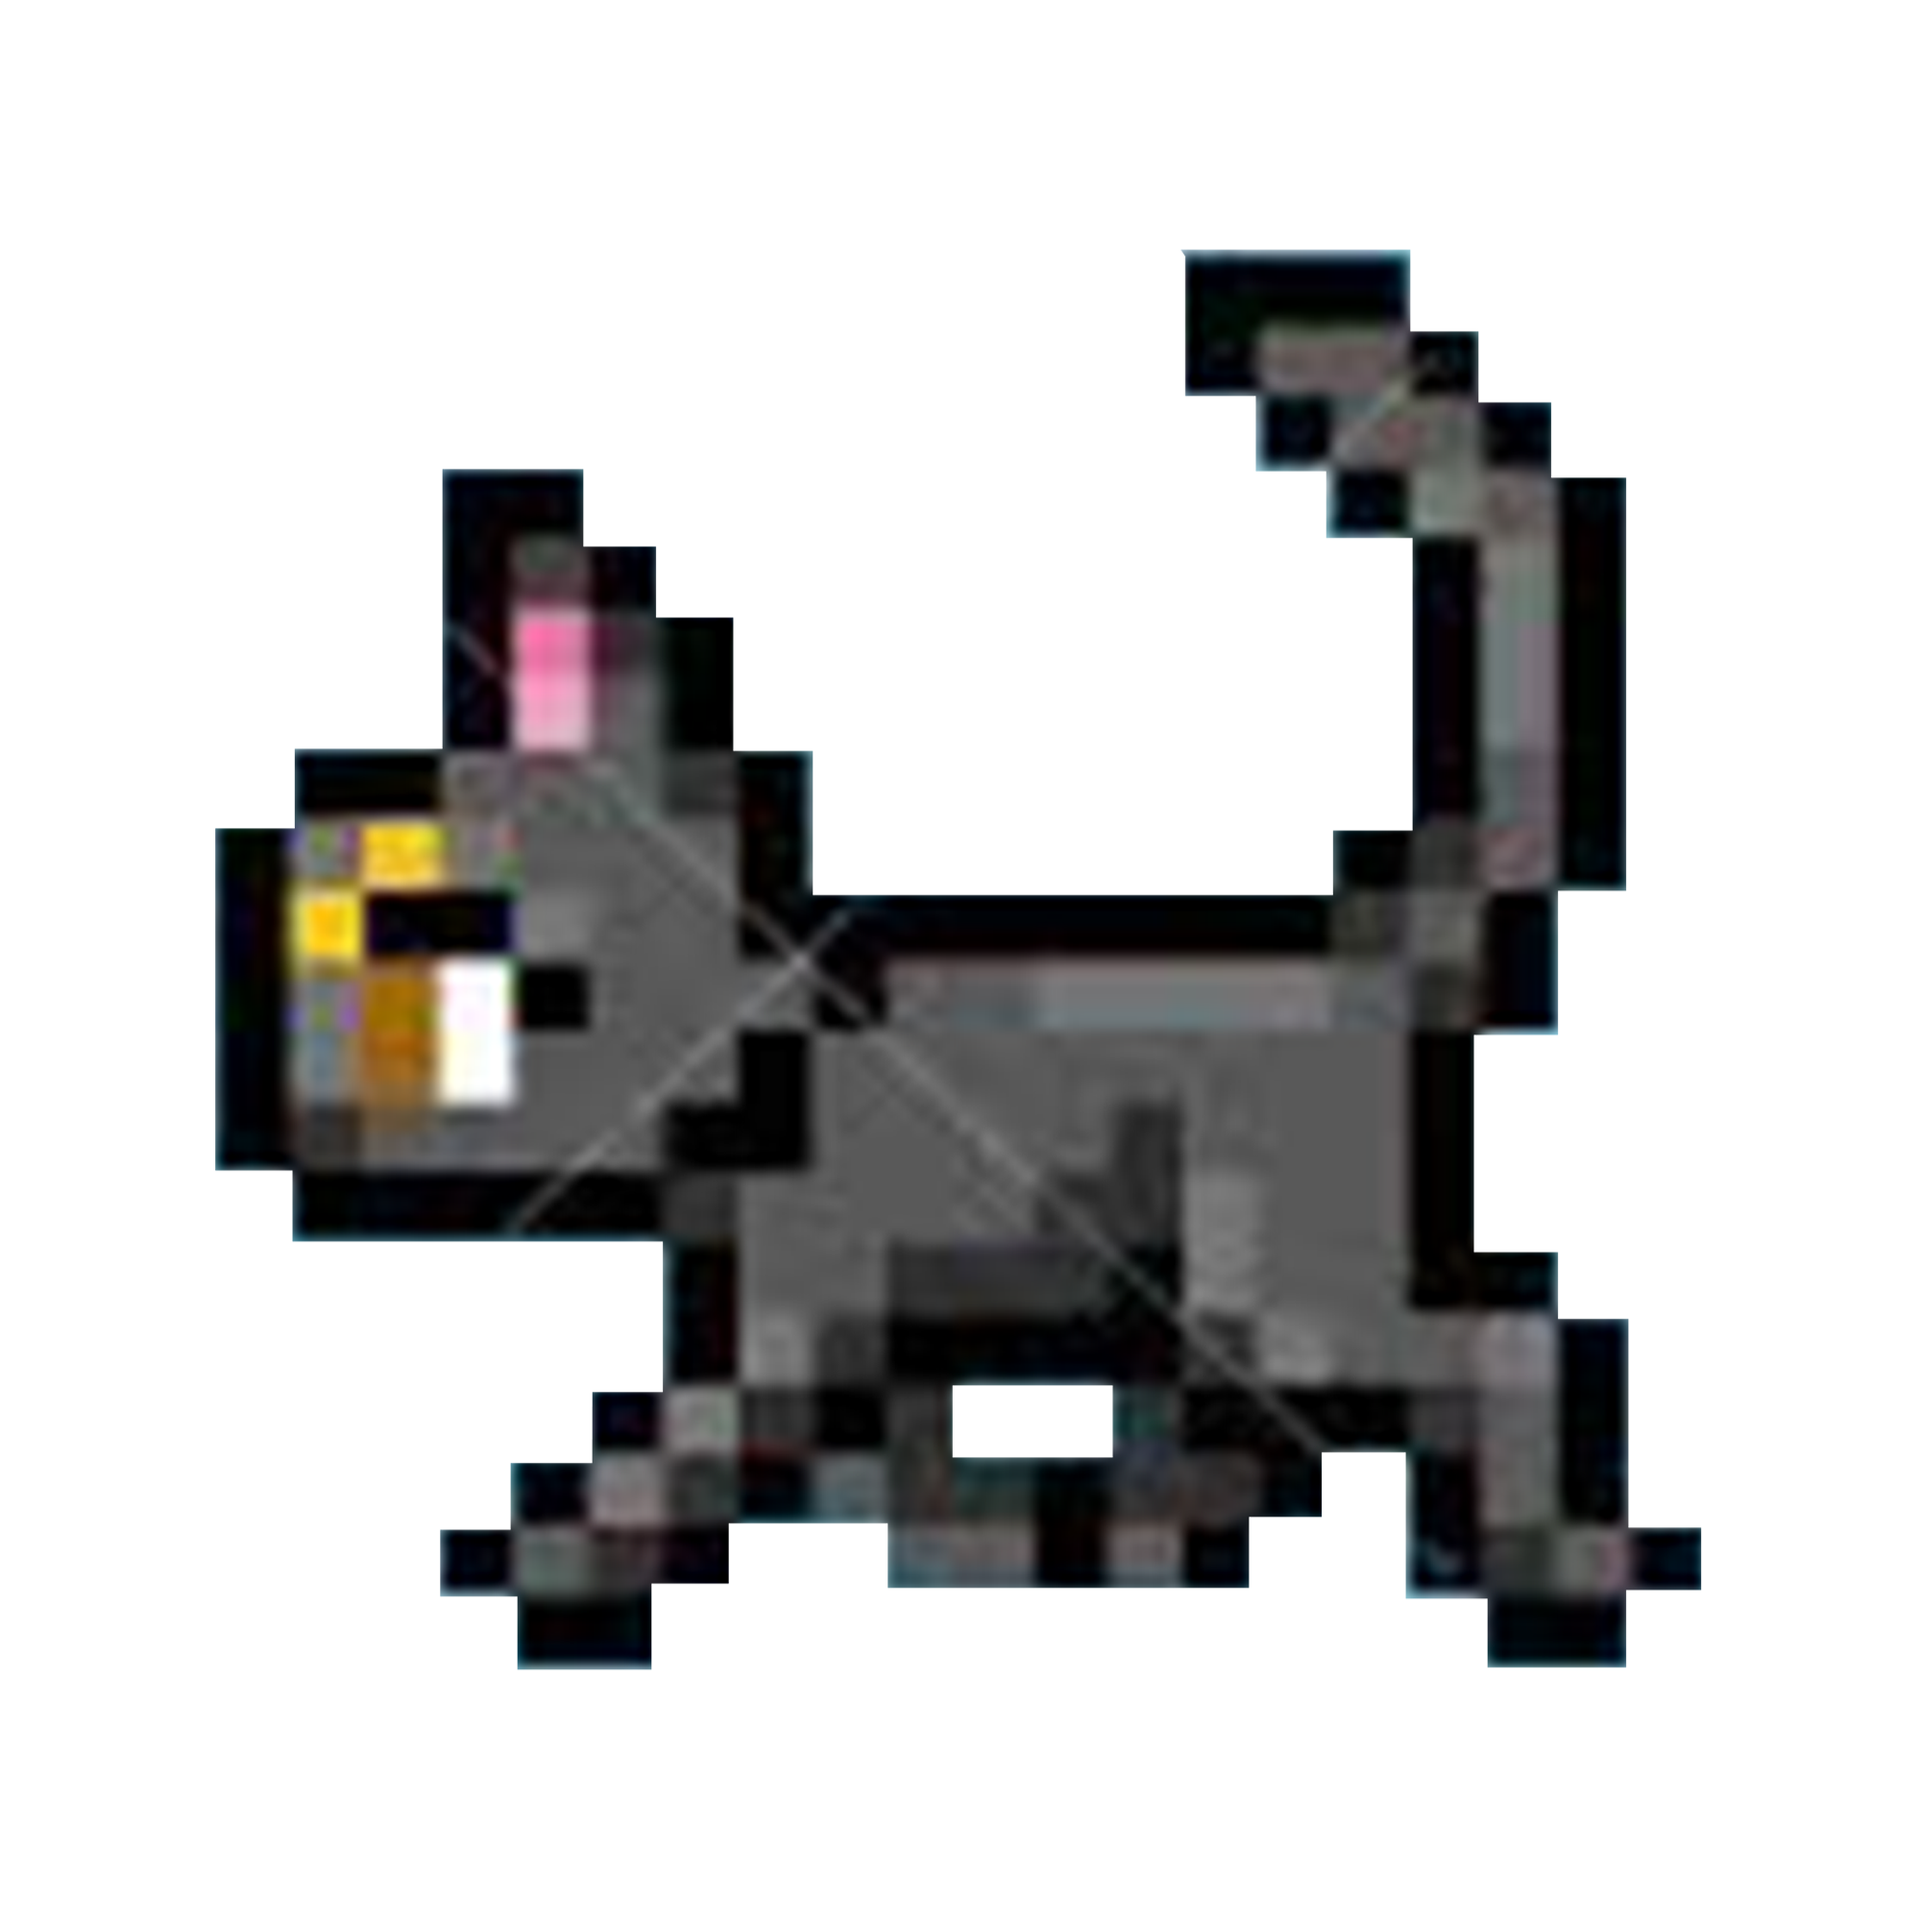
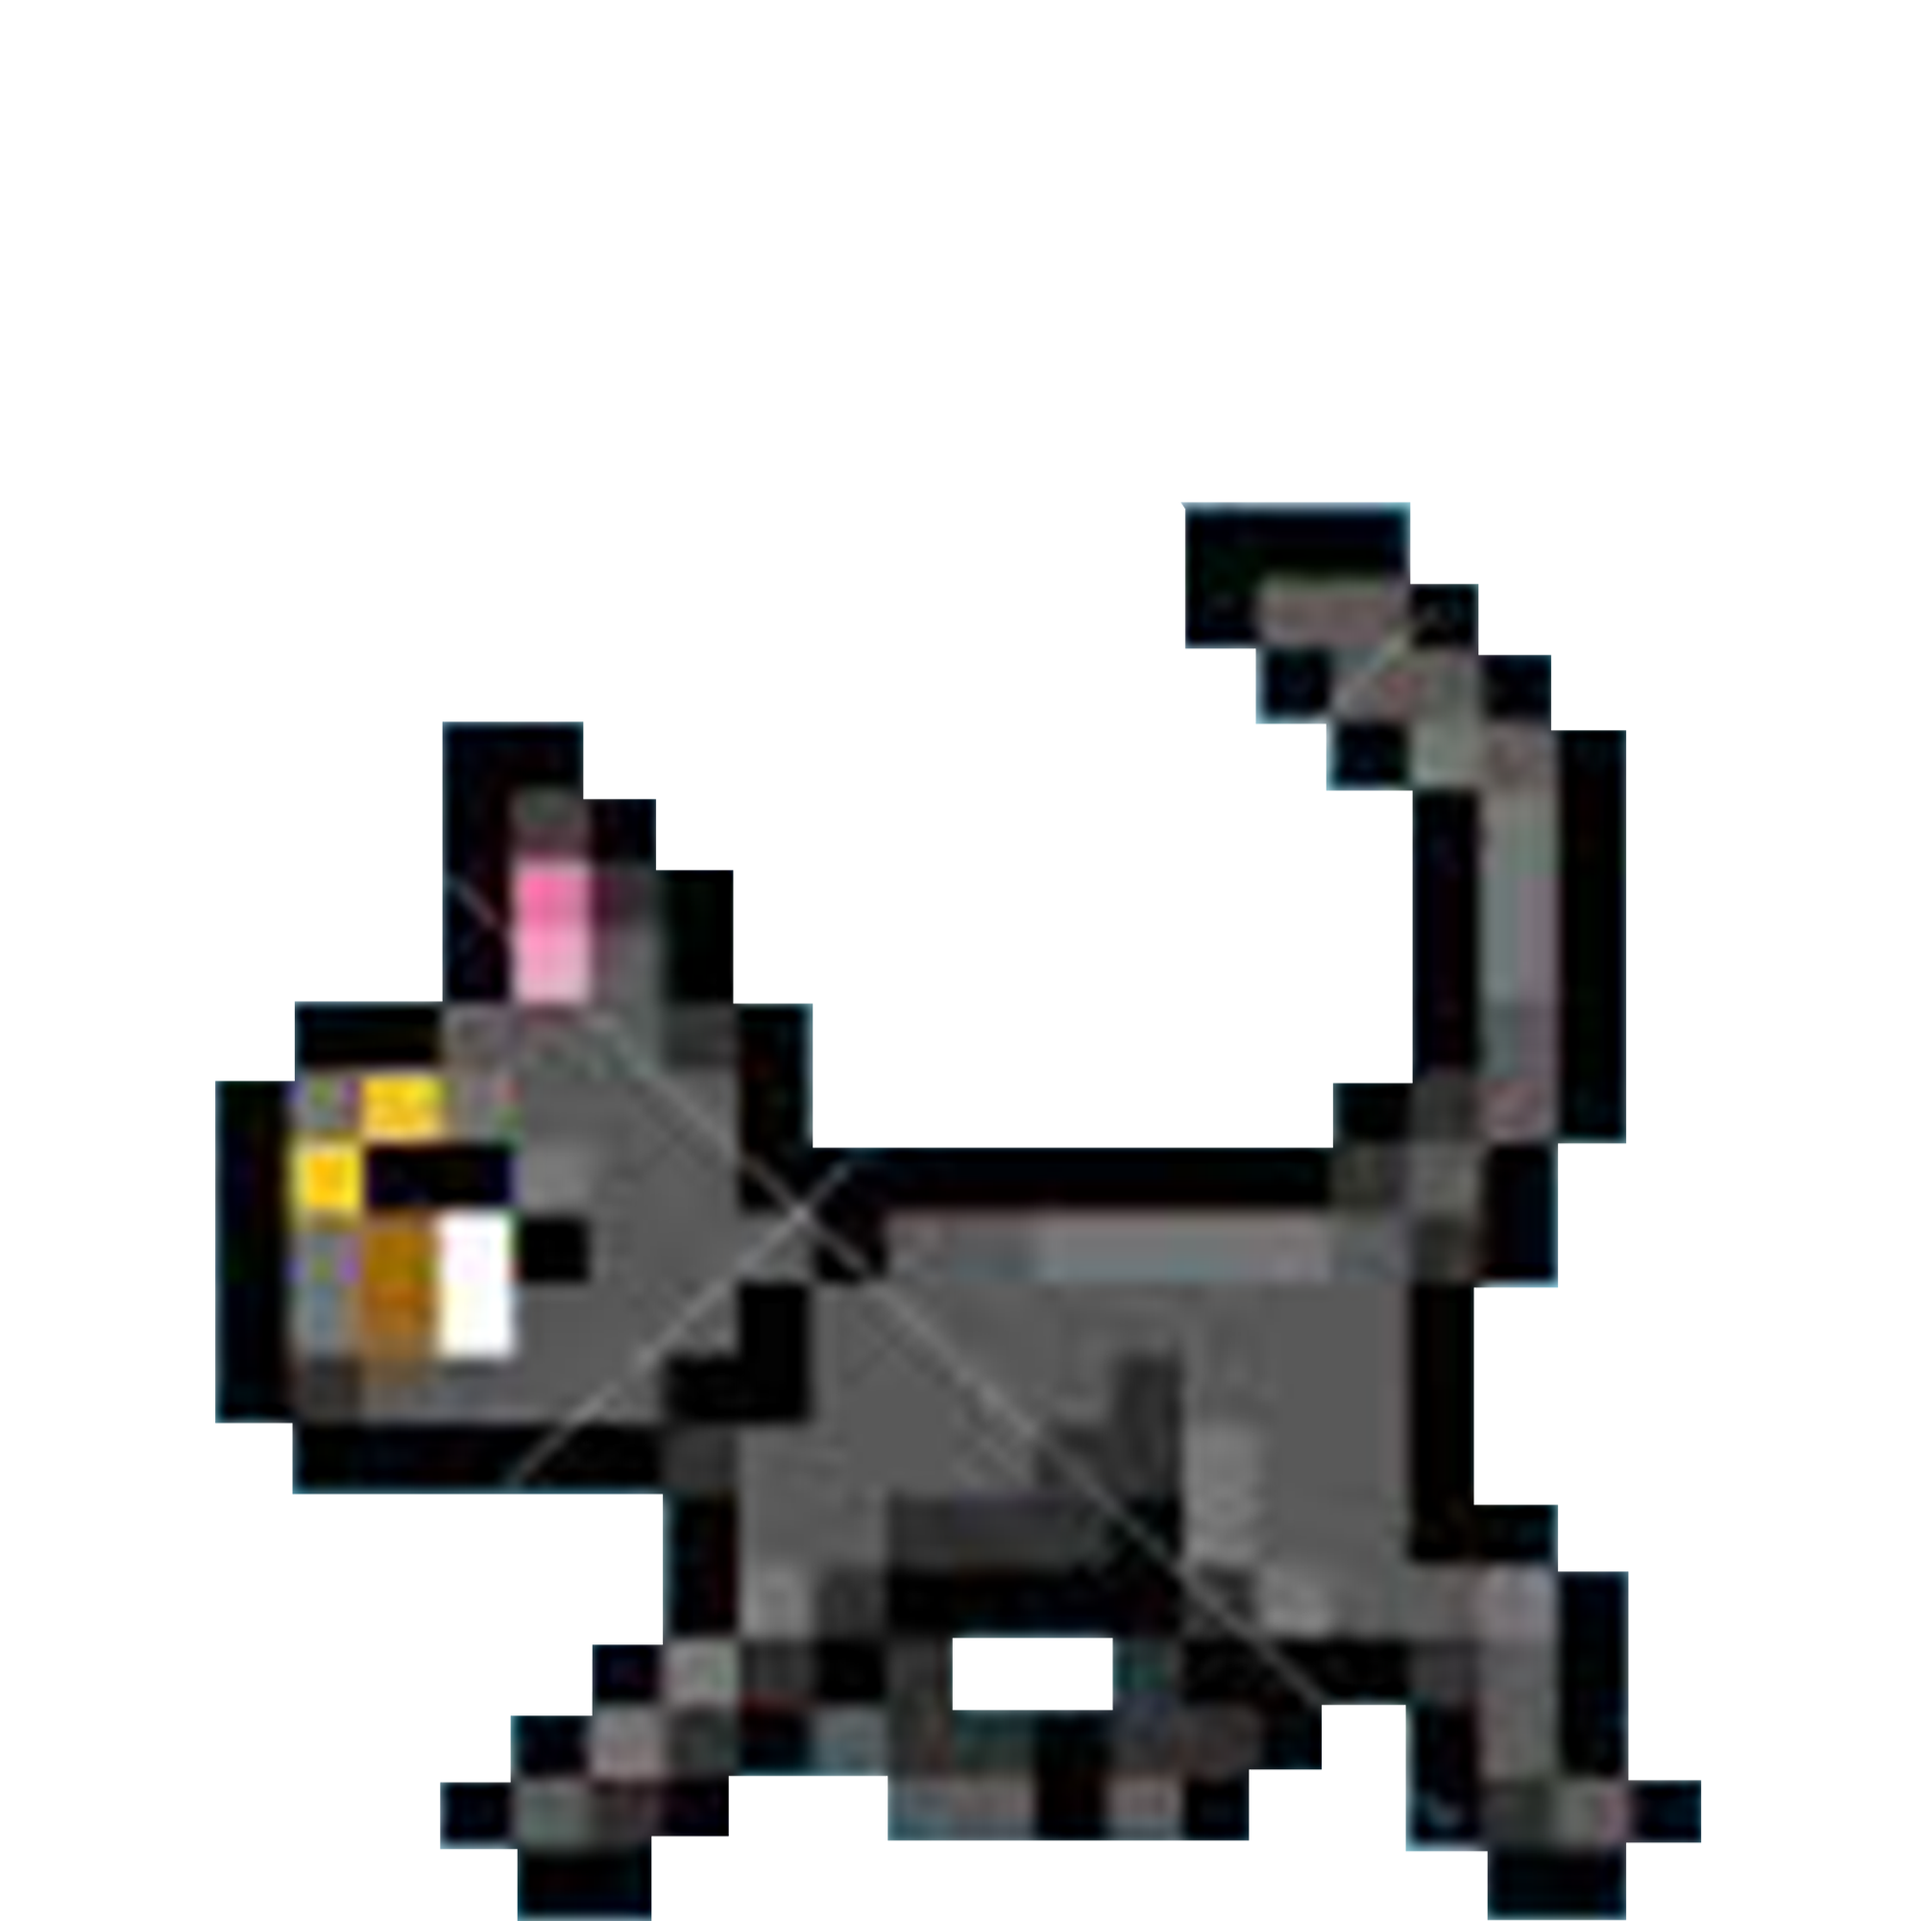
changed the red player into the cat
- cat img from pinterest
- cat img change called by player movement(left and right)

diff --git a/variations_jam/js/variations/red-variation.js b/variations_jam/js/variations/red-variation.js
@@ -16,6 +16,7 @@ const rPlayer = {
 
     velocity: 0,
     speed: 3,
+    img: null,
 }
 
 //Altar values
@@ -39,6 +40,8 @@ let redSpeech = '';
  * This will be called just before the red variation starts
  */
 function redSetup() {
+    //calls for oracle default img
+    rPlayer.img = oracleRight;
     //Calls both altar scrolls
     altarOne = createAltars(1);
     altarTwo = createAltars(2);
@@ -154,7 +157,7 @@ function drawRedSpeechBox() {
     fill(247, 152, 183, 150);
     stroke(0, 0, 0, 150);
     strokeWeight(3);
-    rect(75, 25, 350, 150);
+    rect(75, 25, 350, 175);
     pop();
 }
 
@@ -181,10 +184,12 @@ function moveRedPlayer() {
     // move rPlayer on the X axis (left and right)
     if(keyIsDown(LEFT_ARROW) || keyIsDown(65)) {
         rPlayer.x -= 5;
+        rPlayer.img = oracleLeft; //
     }
 
     if(keyIsDown(RIGHT_ARROW) || keyIsDown(68)) {
         rPlayer.x += 5;
+        rPlayer.img = oracleRight;
     }
     
     // Constrain the rPlayer to the canvas
@@ -196,7 +201,7 @@ function drawPlayer() {
     push();
     fill("#1366e2ff")
     noStroke();
-    rect(rPlayer.x, rPlayer.y, rPlayer.size)
+    image(rPlayer.img, rPlayer.x, rPlayer.y, rPlayer.size, rPlayer.size)
     pop();
 }
 

diff --git a/variations_jam/js/script.js b/variations_jam/js/script.js
@@ -27,6 +27,8 @@ let redBg = undefined;
 let altarImg = undefined;
 let redPaveImg = undefined;
 let redStoneImg = undefined;
+let oracleLeft = undefined;
+let oracleRight = undefined;
 
 //blue bg img
 let blueF = undefined;
@@ -61,6 +63,8 @@ function preload(){
     altarImg = loadImage("assets/images/altar.png");
     redPaveImg = loadImage("assets/images/pavement.png");
     redStoneImg = loadImage("assets/images/stone.png");
+    oracleLeft = loadImage("assets/player/oracle_left.png");
+    oracleRight = loadImage("assets/player/oracle_right.png");
 
     //blue bg variation 
     grassLand = loadImage("assets/images/grass_floor.jpg");
